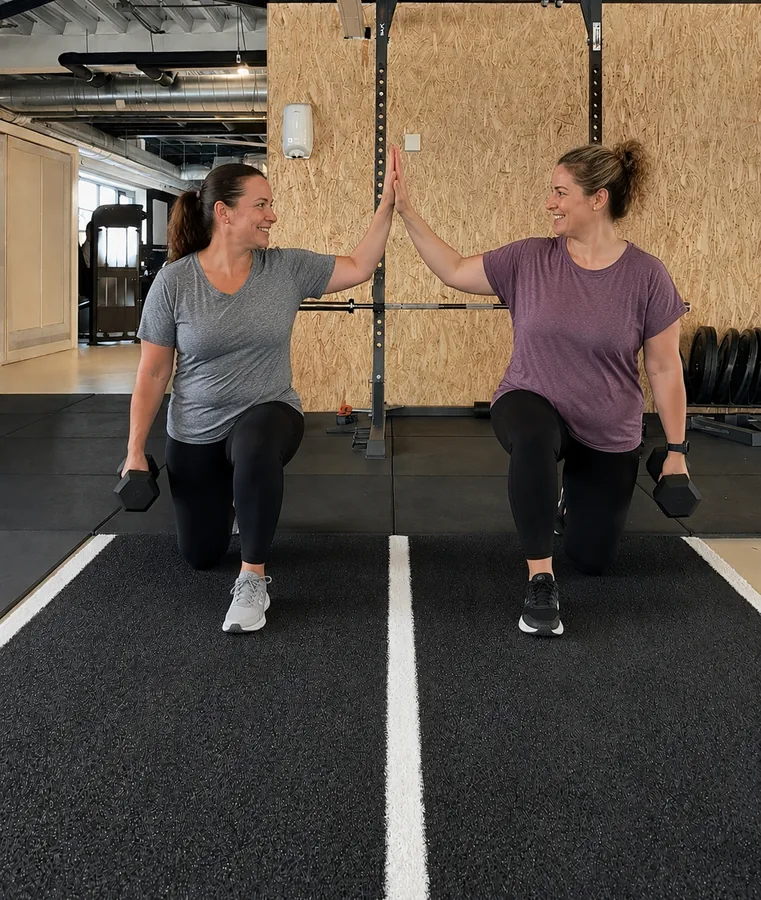
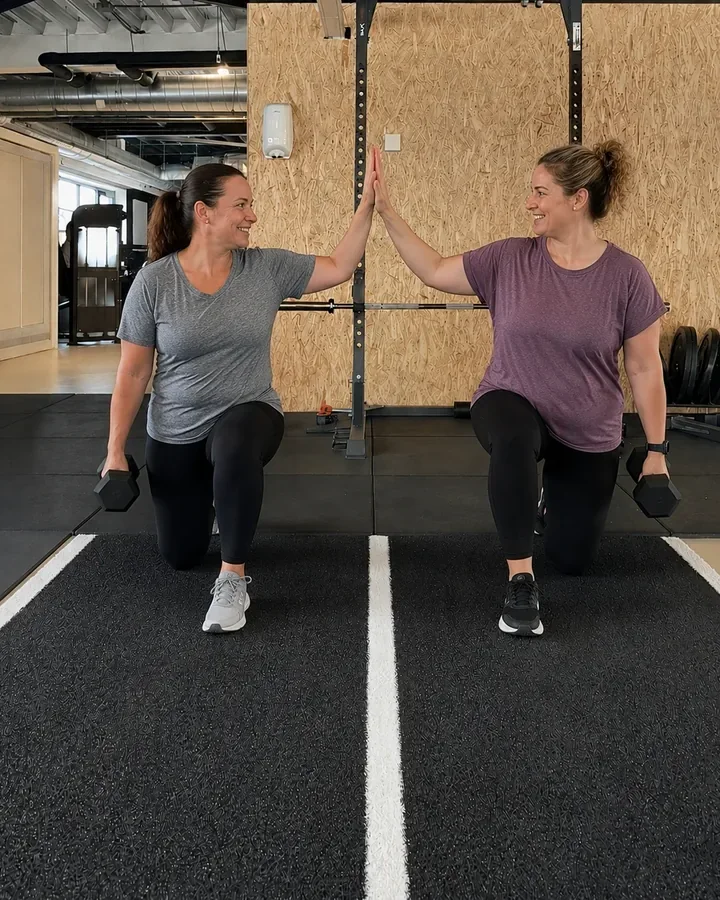
Why-sectie: 2 losse foto's i.p.v. overlappend duo, coach-foto opnieuw gecropt (actie i.p.v. plafond/benen)

diff --git a/index.html b/index.html
@@ -225,12 +225,10 @@ src="https://www.facebook.com/tr?id=1319457633346909&ev=PageView&noscript=1"
   /* WHY */
   .why{background:var(--white)}
   .why-grid{display:grid;grid-template-columns:1fr 1fr;gap:80px;align-items:center}
-  .why-photo-block{position:relative}
-  .why-main-photo{width:100%;aspect-ratio:4/5;overflow:hidden;background:var(--lgray)}
-  .why-main-photo img{width:100%;height:100%;object-fit:cover;object-position:center top;display:block;transition:transform .6s}
-  .why-main-photo:hover img{transform:scale(1.03)}
-  .why-inset{position:absolute;bottom:-24px;right:-24px;background:var(--black);border:3px solid var(--mid);width:52%;aspect-ratio:1;overflow:hidden}
-  .why-inset img{width:100%;height:100%;object-fit:cover;object-position:center top}
+  .why-photo-block{display:grid;grid-template-columns:1fr 1fr;gap:14px}
+  .why-main-photo,.why-inset{width:100%;aspect-ratio:4/5;overflow:hidden;background:var(--lgray);border:0;position:static}
+  .why-main-photo img,.why-inset img{width:100%;height:100%;object-fit:cover;object-position:center;display:block;transition:transform .6s}
+  .why-main-photo:hover img,.why-inset:hover img{transform:scale(1.03)}
   .why-content{padding-top:16px}
   .why-content p{font-size:15px;color:rgba(255,255,255,.5);font-weight:300;line-height:1.75;margin-top:20px;margin-bottom:40px}
   .why-features{display:flex;flex-direction:column}
@@ -364,7 +362,7 @@ src="https://www.facebook.com/tr?id=1319457633346909&ev=PageView&noscript=1"
   .lite .feat-desc{color:rgba(12,12,12,.58)}
   .lite .feat-icon{border-color:rgba(110,130,0,.35);color:#5f7000;background:rgba(212,255,0,.16)}
   .lite .why-feat:hover .feat-icon{background:rgba(212,255,0,.28);border-color:rgba(110,130,0,.5)}
-  .lite .why-inset{border-color:var(--white);background:var(--off)}
+  .lite .why-inset{background:var(--off)}
   /* patrick */
   .lite .patrick-text h2{color:var(--black)}
   .lite .patrick-text h2 em{color:var(--accent);text-shadow:-1px -1px 0 var(--black),1px -1px 0 var(--black),-1px 1px 0 var(--black),1px 1px 0 var(--black)}
@@ -463,8 +461,7 @@ src="https://www.facebook.com/tr?id=1319457633346909&ev=PageView&noscript=1"
     nav.scrolled{padding:12px 20px}
     /* WHY sectie - foto boven tekst op mobiel */
     .why-grid{grid-template-columns:1fr!important;gap:32px}
-    .why-main-photo{width:100%!important;height:280px!important;overflow:hidden;border-radius:8px}
-    .why-main-photo img{width:100%!important;height:100%!important;object-fit:cover}
+    .why-photo-block{gap:10px}
 
     /* PROBLEM sectie - foto netjes op mobiel */
     .problem-grid{grid-template-columns:1fr;gap:0}
@@ -505,8 +502,6 @@ src="https://www.facebook.com/tr?id=1319457633346909&ev=PageView&noscript=1"
     .svc-desc{font-size:13px}
 
     .why-grid{grid-template-columns:1fr;gap:56px}
-    .why-main-photo{aspect-ratio:4/3}
-    .why-inset{width:44%;bottom:-18px;right:-18px}
 
     .reviews-header{flex-direction:column;align-items:flex-start;gap:24px;text-align:left}
     .reviews-grid{grid-template-columns:1fr;gap:2px}
@@ -535,7 +530,6 @@ src="https://www.facebook.com/tr?id=1319457633346909&ev=PageView&noscript=1"
     .logo{font-size:22px;letter-spacing:2px}
     .nav-toggle{width:42px;height:42px}
     /* Kleine telefoons */
-    .why-main-photo{height:220px!important}
     .patrick-photos{grid-template-columns:1fr}
     .p-main,.p-side{height:220px}
 
@@ -572,7 +566,6 @@ src="https://www.facebook.com/tr?id=1319457633346909&ev=PageView&noscript=1"
     .f-brand{grid-column:auto}
     .f-brand p{max-width:none}
 
-    .why-inset{width:40%}
 
     .prob-caption{padding:10px 14px}
     .prob-caption-num{font-size:24px}
@@ -1318,7 +1311,7 @@ src="https://www.facebook.com/tr?id=1319457633346909&ev=PageView&noscript=1"
   <div class="container">
     <div class="why-grid">
       <div class="why-photo-block reveal">
-        <div class="why-main-photo"><img src="assets/images/why-coach-klant.webp" alt="Coach begeleidt klant tijdens krachttraining bij Fit Up Leiderdorp" loading="lazy" decoding="async" style="object-position:center 78%"></div>
+        <div class="why-main-photo"><img src="assets/images/why-coach-klant.webp" alt="Coach begeleidt klant tijdens krachttraining bij Fit Up Leiderdorp" loading="lazy" decoding="async"></div>
         <div class="why-inset"><img src="assets/images/why-highfive-duo.webp" alt="Twee leden die elkaar motiveren tijdens een training bij Fit Up Leiderdorp" loading="lazy" decoding="async"></div>
       </div>
       <div class="why-content">
